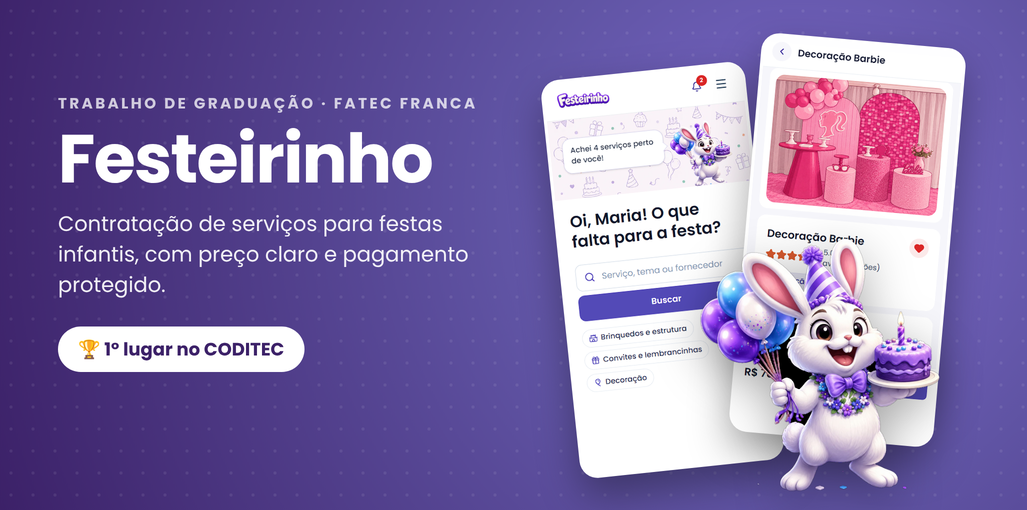
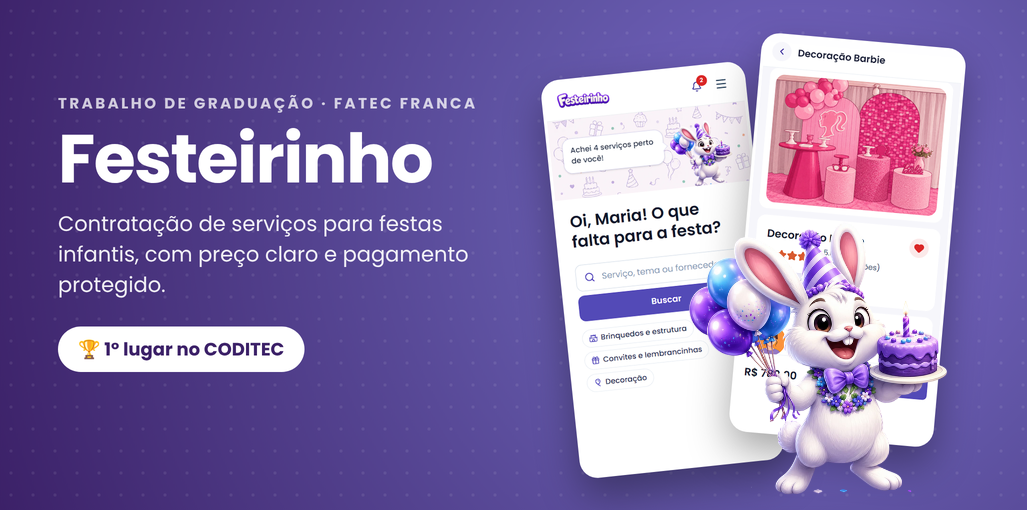
fix: retira o fundo preto da imagem do card festeirinho em projetos

Changed region(s): [[0.6543, 0.4412, 0.9348, 0.9706]]

diff --git a/dist/index.html b/dist/index.html
@@ -11,7 +11,7 @@
     rel="stylesheet">
   <meta name="viewport" content="width=device-width, initial-scale=1.0" />
   <title>Portfolio - Rafaela Simion</title>
-  <script type="module" crossorigin src="/portfolio/assets/index-CbYRd6Os.js"></script>
+  <script type="module" crossorigin src="/portfolio/assets/index-auxTKumn.js"></script>
   <link rel="stylesheet" crossorigin href="/portfolio/assets/index-BdHqyF6v.css">
 </head>
 
